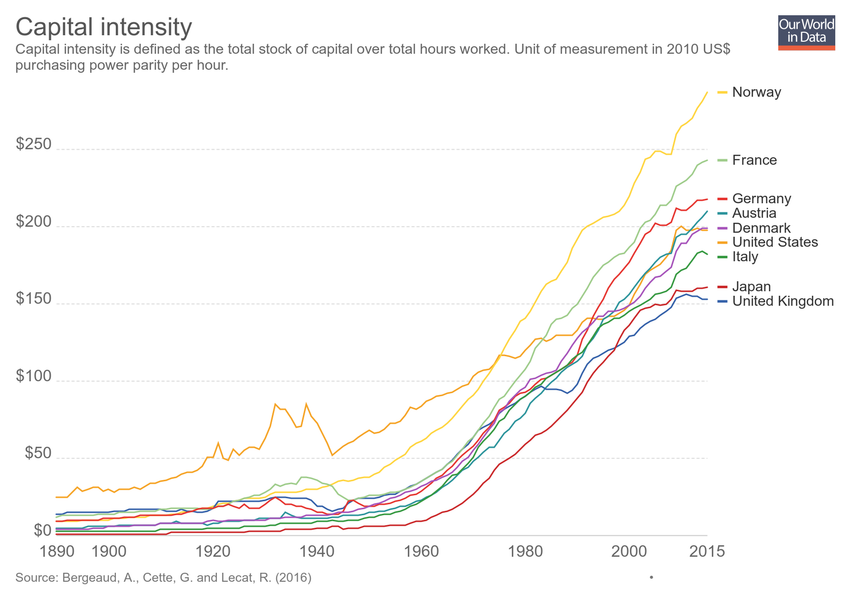
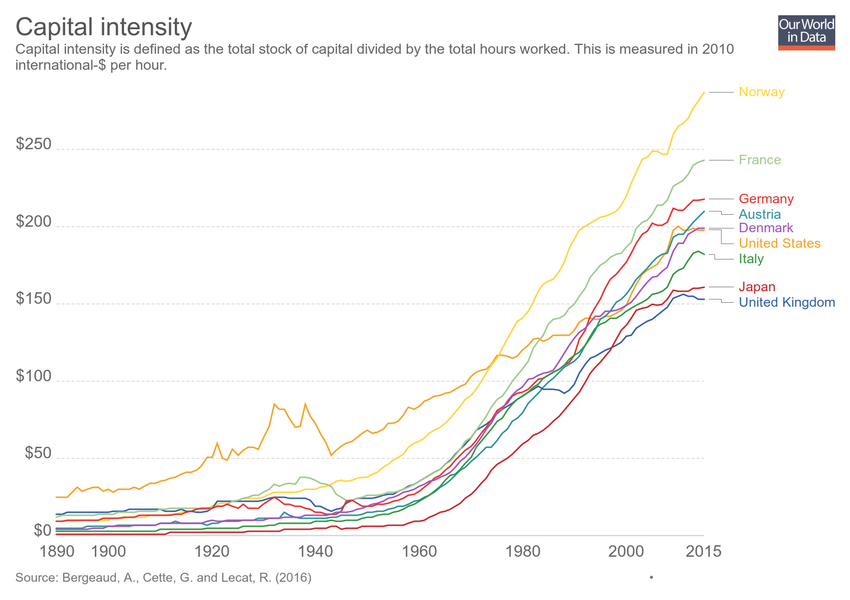
Updating chart capital-intensity

diff --git a/grapher/rate-of-internationally-observed-elections.html b/grapher/rate-of-internationally-observed-elections.html
@@ -1,4 +1,4 @@
-<!doctype html><html><head><meta name="viewport" content="width=device-width, initial-scale=1" /><title>Internationally observed elections (%) - Our World in Data</title><meta name="description" content="Percentage of internationally observed elections and whether they were criticized by international observers. Figures cover 1,754 election events in 157 independent states, excluding those with population less than 250,000." /><link rel="canonical" href="https://ourworldindata.org/grapher/rate-of-internationally-observed-elections" /><meta property="fb:app_id" content="1149943818390250" /><meta property="og:url" content="https://ourworldindata.org/grapher/rate-of-internationally-observed-elections" /><meta property="og:title" content="Internationally observed elections (%)" /><meta property="og:description" content="Percentage of internationally observed elections and whether they were criticized by international observers. Figures cover 1,754 election events in 157 independent states, excluding those with population less than 250,000." /><meta property="og:image" content="https://ourworldindata.org/grapher/exports/rate-of-internationally-observed-elections.png?v=16" /><meta property="og:image:width" content="850" /><meta property="og:image:height" content="600" /><meta property="og:site_name" content="Our World in Data" /><meta name="twitter:card" content="summary_large_image" /><meta name="twitter:site" content="@OurWorldInData" /><meta name="twitter:creator" content="@OurWorldInData" /><meta name="twitter:title" content="Internationally observed elections (%)" /><meta name="twitter:description" content="Percentage of internationally observed elections and whether they were criticized by international observers. Figures cover 1,754 election events in 157 independent states, excluding those with population less than 250,000." /><meta name="twitter:image" content="https://ourworldindata.org/grapher/exports/rate-of-internationally-observed-elections.png?v=16" /><style>
+<!doctype html><html><head><meta name="viewport" content="width=device-width, initial-scale=1" /><title>Internationally observed elections by Western monitors - Our World in Data</title><meta name="description" content="Estimates correspond to the number of international elections that were either observed and criticized by Western monitors, observed and not criticized by Western monitors, or elections that were not observed by Western monitors. Criticism refers to allegations of significant vote-fraud." /><link rel="canonical" href="https://ourworldindata.org/grapher/rate-of-internationally-observed-elections" /><meta property="fb:app_id" content="1149943818390250" /><meta property="og:url" content="https://ourworldindata.org/grapher/rate-of-internationally-observed-elections" /><meta property="og:title" content="Internationally observed elections by Western monitors" /><meta property="og:description" content="Estimates correspond to the number of international elections that were either observed and criticized by Western monitors, observed and not criticized by Western monitors, or elections that were not observed by Western monitors. Criticism refers to allegations of significant vote-fraud." /><meta property="og:image" content="https://ourworldindata.org/grapher/exports/rate-of-internationally-observed-elections.png?v=9" /><meta property="og:image:width" content="850" /><meta property="og:image:height" content="600" /><meta property="og:site_name" content="Our World in Data" /><meta name="twitter:card" content="summary_large_image" /><meta name="twitter:site" content="@OurWorldInData" /><meta name="twitter:creator" content="@OurWorldInData" /><meta name="twitter:title" content="Internationally observed elections by Western monitors" /><meta name="twitter:description" content="Estimates correspond to the number of international elections that were either observed and criticized by Western monitors, observed and not criticized by Western monitors, or elections that were not observed by Western monitors. Criticism refers to allegations of significant vote-fraud." /><meta name="twitter:image" content="https://ourworldindata.org/grapher/exports/rate-of-internationally-observed-elections.png?v=9" /><style>
         html, body {
             height: 100%;
             margin: 0;
@@ -20,8 +20,8 @@
         }
     </style><noscript><style>
                     figure { display: none !important; }
-                </style></noscript><link rel="stylesheet" href="https://ourworldindata.org/grapher/assets/commons.bundle.ac09ff8f098f0c7be836.css" /><link rel="preload" href="/grapher/data/variables/97378+97379.json?v=16" as="fetch" crossorigin /></head><body class="singleChart"><figure data-grapher-src="/grapher/rate-of-internationally-observed-elections"></figure><noscript id="fallback"><img src="/grapher/exports/rate-of-internationally-observed-elections.svg" /><p>Interactive visualization requires JavaScript</p></noscript><script src="https://cdn.polyfill.io/v2/polyfill.min.js?features=es6,fetch"></script><script src="https://ourworldindata.org/grapher/assets/commons.bundle.ac09ff8f098f0c7be836.js"></script><script src="https://ourworldindata.org/grapher/assets/charts.bundle.dcf65b68eddaba4c6a58.js"></script><script>
-        var jsonConfig = {"id":2589,"map":{"projection":"World","colorSchemeLabels":[],"colorSchemeValues":[],"colorSchemeMinValue":0,"customNumericColors":[],"customCategoryColors":{},"customCategoryLabels":{},"customHiddenCategories":{}},"tab":"chart","slug":"rate-of-internationally-observed-elections","type":"StackedArea","title":"Internationally observed elections (%)","xAxis":{"scaleType":"linear"},"yAxis":{"max":80,"min":0,"scaleType":"linear"},"version":16,"subtitle":"Percentage of internationally observed elections and whether they were criticized by international observers. Figures cover 1,754 election events in 157 independent states, excluding those with population less than 250,000.","hasMapTab":false,"stackMode":"absolute","dimensions":[{"display":{"name":"Percent of elections observed and criticised","unit":"%"},"property":"y","variableId":97378},{"display":{"name":"Percent of elections observed and not criticised"},"property":"y","variableId":97379}],"hasChartTab":true,"isPublished":true,"selectedData":[{"index":0,"entityId":355},{"index":1,"entityId":355}],"addCountryMode":"change-country","baseColorScheme":"Plasma","hideRelativeToggle":true,"hideTitleAnnotation":true};
+                </style></noscript><link rel="stylesheet" href="https://ourworldindata.org/grapher/assets/commons.bundle.ac09ff8f098f0c7be836.css" /><link rel="preload" href="/grapher/data/variables/97399+97400+97401.json?v=9" as="fetch" crossorigin /></head><body class="singleChart"><figure data-grapher-src="/grapher/rate-of-internationally-observed-elections"></figure><noscript id="fallback"><img src="/grapher/exports/rate-of-internationally-observed-elections.svg" /><p>Interactive visualization requires JavaScript</p></noscript><script src="https://cdn.polyfill.io/v2/polyfill.min.js?features=es6,fetch"></script><script src="https://ourworldindata.org/grapher/assets/commons.bundle.ac09ff8f098f0c7be836.js"></script><script src="https://ourworldindata.org/grapher/assets/charts.bundle.dcf65b68eddaba4c6a58.js"></script><script>
+        var jsonConfig = {"id":2598,"map":{"projection":"World","colorSchemeLabels":[],"colorSchemeValues":[],"customNumericColors":[],"customCategoryColors":{},"customCategoryLabels":{},"customHiddenCategories":{}},"tab":"chart","note":"Includes 2435 election events in 162 countries","slug":"rate-of-internationally-observed-elections","type":"StackedArea","title":"Internationally observed elections by Western monitors","xAxis":{"scaleType":"linear"},"yAxis":{"min":0,"scaleType":"linear"},"version":9,"subtitle":"Estimates correspond to the number of international elections that were either observed and criticized by Western monitors, observed and not criticized by Western monitors, or elections that were not observed by Western monitors. Criticism refers to allegations of significant vote-fraud.","hasMapTab":false,"stackMode":"relative","dimensions":[{"display":{"name":"Elections not observed","unit":"elections","shortUnit":""},"property":"y","variableId":97399},{"display":{"name":"Elections observed and criticized"},"property":"y","variableId":97400},{"display":{"name":"Elections observed and not critcized"},"property":"y","variableId":97401}],"hasChartTab":true,"isPublished":true,"selectedData":[{"index":0,"entityId":355},{"index":2,"entityId":355},{"index":1,"entityId":355}],"addCountryMode":"change-country","baseColorScheme":"owid-distinct","invertColorScheme":true,"hideTitleAnnotation":true};
         var figure = document.getElementsByTagName("figure")[0];
         try {
             window.App = {};

diff --git a/grapher/capital-intensity.html b/grapher/capital-intensity.html
@@ -1,4 +1,4 @@
-<!doctype html><html><head><meta name="viewport" content="width=device-width, initial-scale=1" /><title>Capital intensity - Our World in Data</title><meta name="description" content="Capital intensity is defined as the total stock of capital over total hours worked. Unit of measurement in 2010 US$ purchasing power parity per hour. " /><link rel="canonical" href="https://ourworldindata.org/grapher/capital-intensity" /><meta property="fb:app_id" content="1149943818390250" /><meta property="og:url" content="https://ourworldindata.org/grapher/capital-intensity" /><meta property="og:title" content="Capital intensity" /><meta property="og:description" content="Capital intensity is defined as the total stock of capital over total hours worked. Unit of measurement in 2010 US$ purchasing power parity per hour. " /><meta property="og:image" content="https://ourworldindata.org/grapher/exports/capital-intensity.png?v=1" /><meta property="og:image:width" content="850" /><meta property="og:image:height" content="600" /><meta property="og:site_name" content="Our World in Data" /><meta name="twitter:card" content="summary_large_image" /><meta name="twitter:site" content="@OurWorldInData" /><meta name="twitter:creator" content="@OurWorldInData" /><meta name="twitter:title" content="Capital intensity" /><meta name="twitter:description" content="Capital intensity is defined as the total stock of capital over total hours worked. Unit of measurement in 2010 US$ purchasing power parity per hour. " /><meta name="twitter:image" content="https://ourworldindata.org/grapher/exports/capital-intensity.png?v=1" /><style>
+<!doctype html><html><head><meta name="viewport" content="width=device-width, initial-scale=1" /><title>Capital intensity - Our World in Data</title><meta name="description" content="Capital intensity is defined as the total stock of capital divided by the total hours worked. This is measured in 2010 international-$ per hour. " /><link rel="canonical" href="https://ourworldindata.org/grapher/capital-intensity" /><meta property="fb:app_id" content="1149943818390250" /><meta property="og:url" content="https://ourworldindata.org/grapher/capital-intensity" /><meta property="og:title" content="Capital intensity" /><meta property="og:description" content="Capital intensity is defined as the total stock of capital divided by the total hours worked. This is measured in 2010 international-$ per hour. " /><meta property="og:image" content="https://ourworldindata.org/grapher/exports/capital-intensity.png?v=2" /><meta property="og:image:width" content="850" /><meta property="og:image:height" content="600" /><meta property="og:site_name" content="Our World in Data" /><meta name="twitter:card" content="summary_large_image" /><meta name="twitter:site" content="@OurWorldInData" /><meta name="twitter:creator" content="@OurWorldInData" /><meta name="twitter:title" content="Capital intensity" /><meta name="twitter:description" content="Capital intensity is defined as the total stock of capital divided by the total hours worked. This is measured in 2010 international-$ per hour. " /><meta name="twitter:image" content="https://ourworldindata.org/grapher/exports/capital-intensity.png?v=2" /><style>
         html, body {
             height: 100%;
             margin: 0;
@@ -20,8 +20,8 @@
         }
     </style><noscript><style>
                     figure { display: none !important; }
-                </style></noscript><link rel="stylesheet" href="https://ourworldindata.org/grapher/assets/commons.bundle.ac09ff8f098f0c7be836.css" /><link rel="preload" href="/grapher/data/variables/96590.json?v=1" as="fetch" crossorigin /></head><body class="singleChart"><figure data-grapher-src="/grapher/capital-intensity"></figure><noscript id="fallback"><img src="/grapher/exports/capital-intensity.svg" /><p>Interactive visualization requires JavaScript</p></noscript><script src="https://cdn.polyfill.io/v2/polyfill.min.js?features=es6,fetch"></script><script src="https://ourworldindata.org/grapher/assets/commons.bundle.ac09ff8f098f0c7be836.js"></script><script src="https://ourworldindata.org/grapher/assets/charts.bundle.dcf65b68eddaba4c6a58.js"></script><script>
-        var jsonConfig = {"map":{"projection":"World","colorSchemeLabels":[],"colorSchemeValues":[],"colorSchemeMinValue":0,"customNumericColors":[],"customCategoryColors":{},"customCategoryLabels":{},"customHiddenCategories":{}},"tab":"chart","slug":"capital-intensity","type":"LineChart","title":"Capital intensity","xAxis":{"scaleType":"linear"},"yAxis":{"min":0,"scaleType":"linear"},"version":1,"subtitle":"Capital intensity is defined as the total stock of capital over total hours worked. Unit of measurement in 2010 US$ purchasing power parity per hour. ","hasMapTab":false,"stackMode":"absolute","dimensions":[{"display":{"unit":"$"},"property":"y","variableId":96590}],"isAutoSlug":true,"hasChartTab":true,"isPublished":true,"selectedData":[{"index":0,"entityId":13},{"index":0,"entityId":102},{"index":0,"entityId":24},{"index":0,"entityId":1},{"index":0,"entityId":3},{"index":0,"entityId":6},{"index":0,"entityId":8},{"index":0,"entityId":14},{"index":0,"entityId":161}],"addCountryMode":"add-country","id":2525};
+                </style></noscript><link rel="stylesheet" href="https://ourworldindata.org/grapher/assets/commons.bundle.ac09ff8f098f0c7be836.css" /><link rel="preload" href="/grapher/data/variables/96590.json?v=2" as="fetch" crossorigin /></head><body class="singleChart"><figure data-grapher-src="/grapher/capital-intensity"></figure><noscript id="fallback"><img src="/grapher/exports/capital-intensity.svg" /><p>Interactive visualization requires JavaScript</p></noscript><script src="https://cdn.polyfill.io/v2/polyfill.min.js?features=es6,fetch"></script><script src="https://ourworldindata.org/grapher/assets/commons.bundle.ac09ff8f098f0c7be836.js"></script><script src="https://ourworldindata.org/grapher/assets/charts.bundle.dcf65b68eddaba4c6a58.js"></script><script>
+        var jsonConfig = {"id":2525,"map":{"projection":"World","colorSchemeLabels":[],"colorSchemeValues":[],"colorSchemeMinValue":0,"customNumericColors":[],"customCategoryColors":{},"customCategoryLabels":{},"customHiddenCategories":{}},"tab":"chart","slug":"capital-intensity","type":"LineChart","title":"Capital intensity","xAxis":{"scaleType":"linear"},"yAxis":{"min":0,"scaleType":"linear"},"version":2,"subtitle":"Capital intensity is defined as the total stock of capital divided by the total hours worked. This is measured in 2010 international-$ per hour. ","hasMapTab":false,"stackMode":"absolute","dimensions":[{"display":{"unit":"$"},"property":"y","variableId":96590}],"hasChartTab":true,"isPublished":true,"selectedData":[{"index":0,"entityId":13},{"index":0,"entityId":102},{"index":0,"entityId":24},{"index":0,"entityId":1},{"index":0,"entityId":3},{"index":0,"entityId":6},{"index":0,"entityId":8},{"index":0,"entityId":14},{"index":0,"entityId":161}],"addCountryMode":"add-country"};
         var figure = document.getElementsByTagName("figure")[0];
         try {
             window.App = {};
